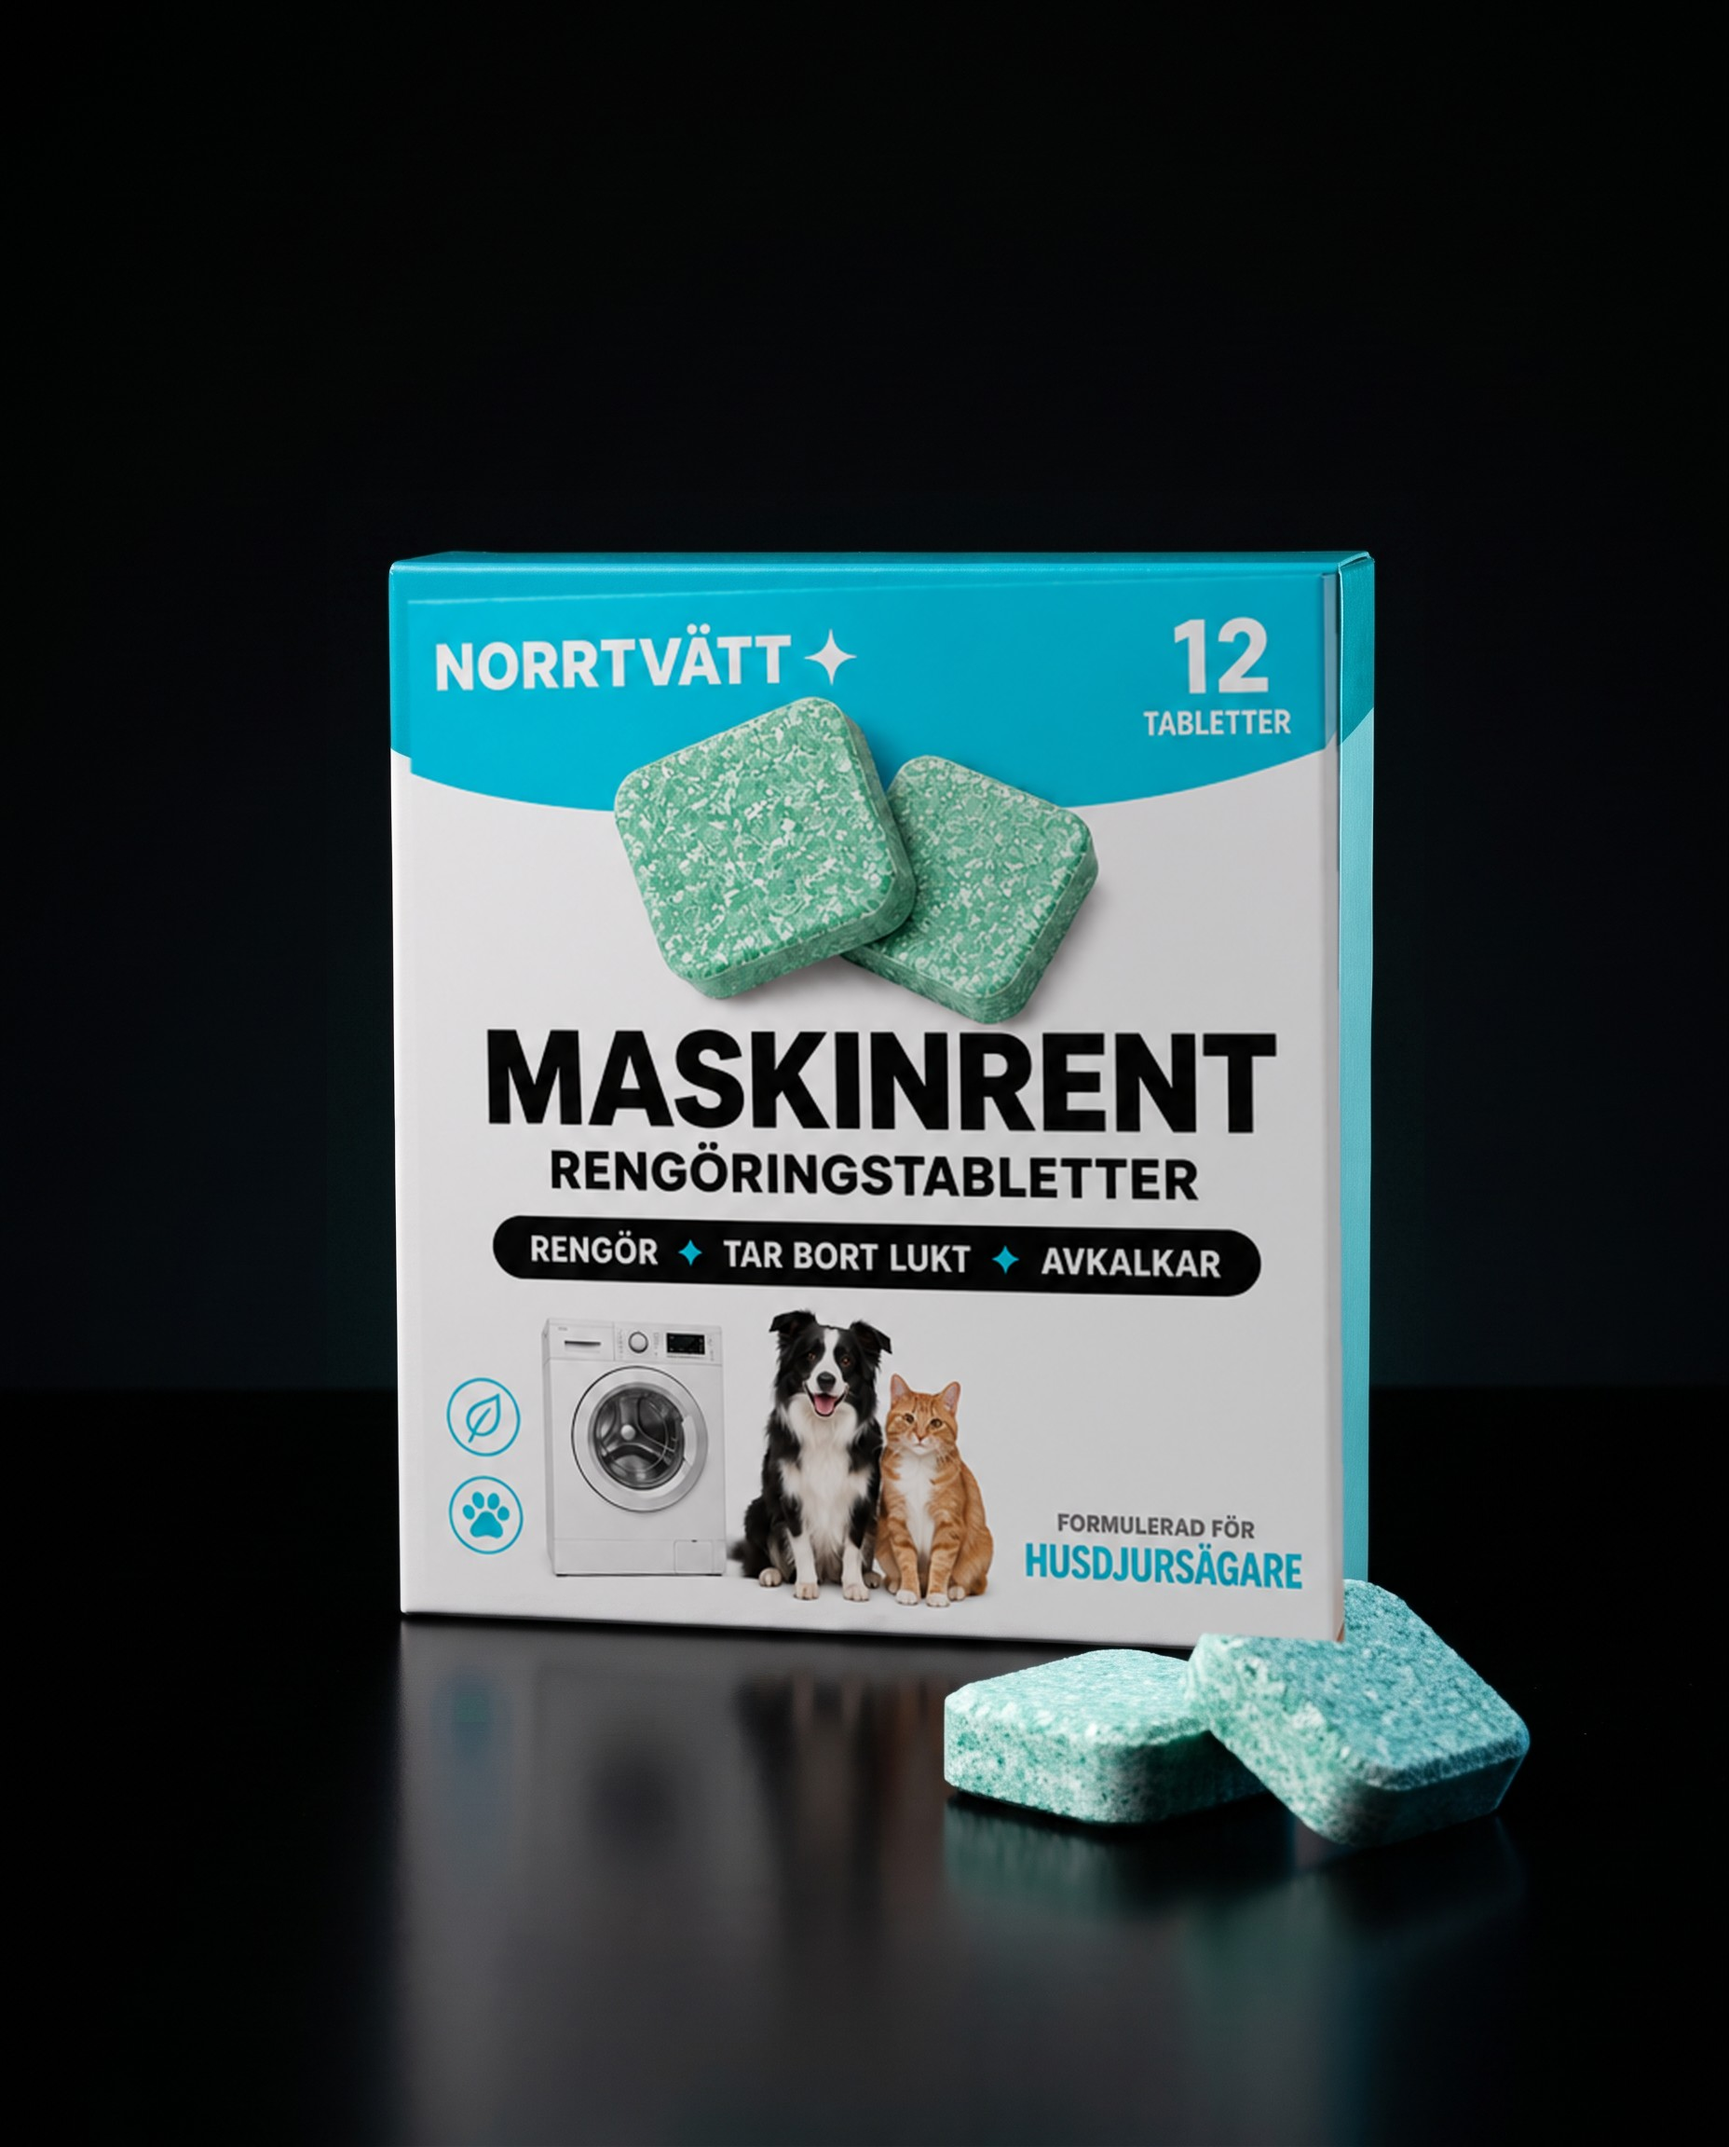
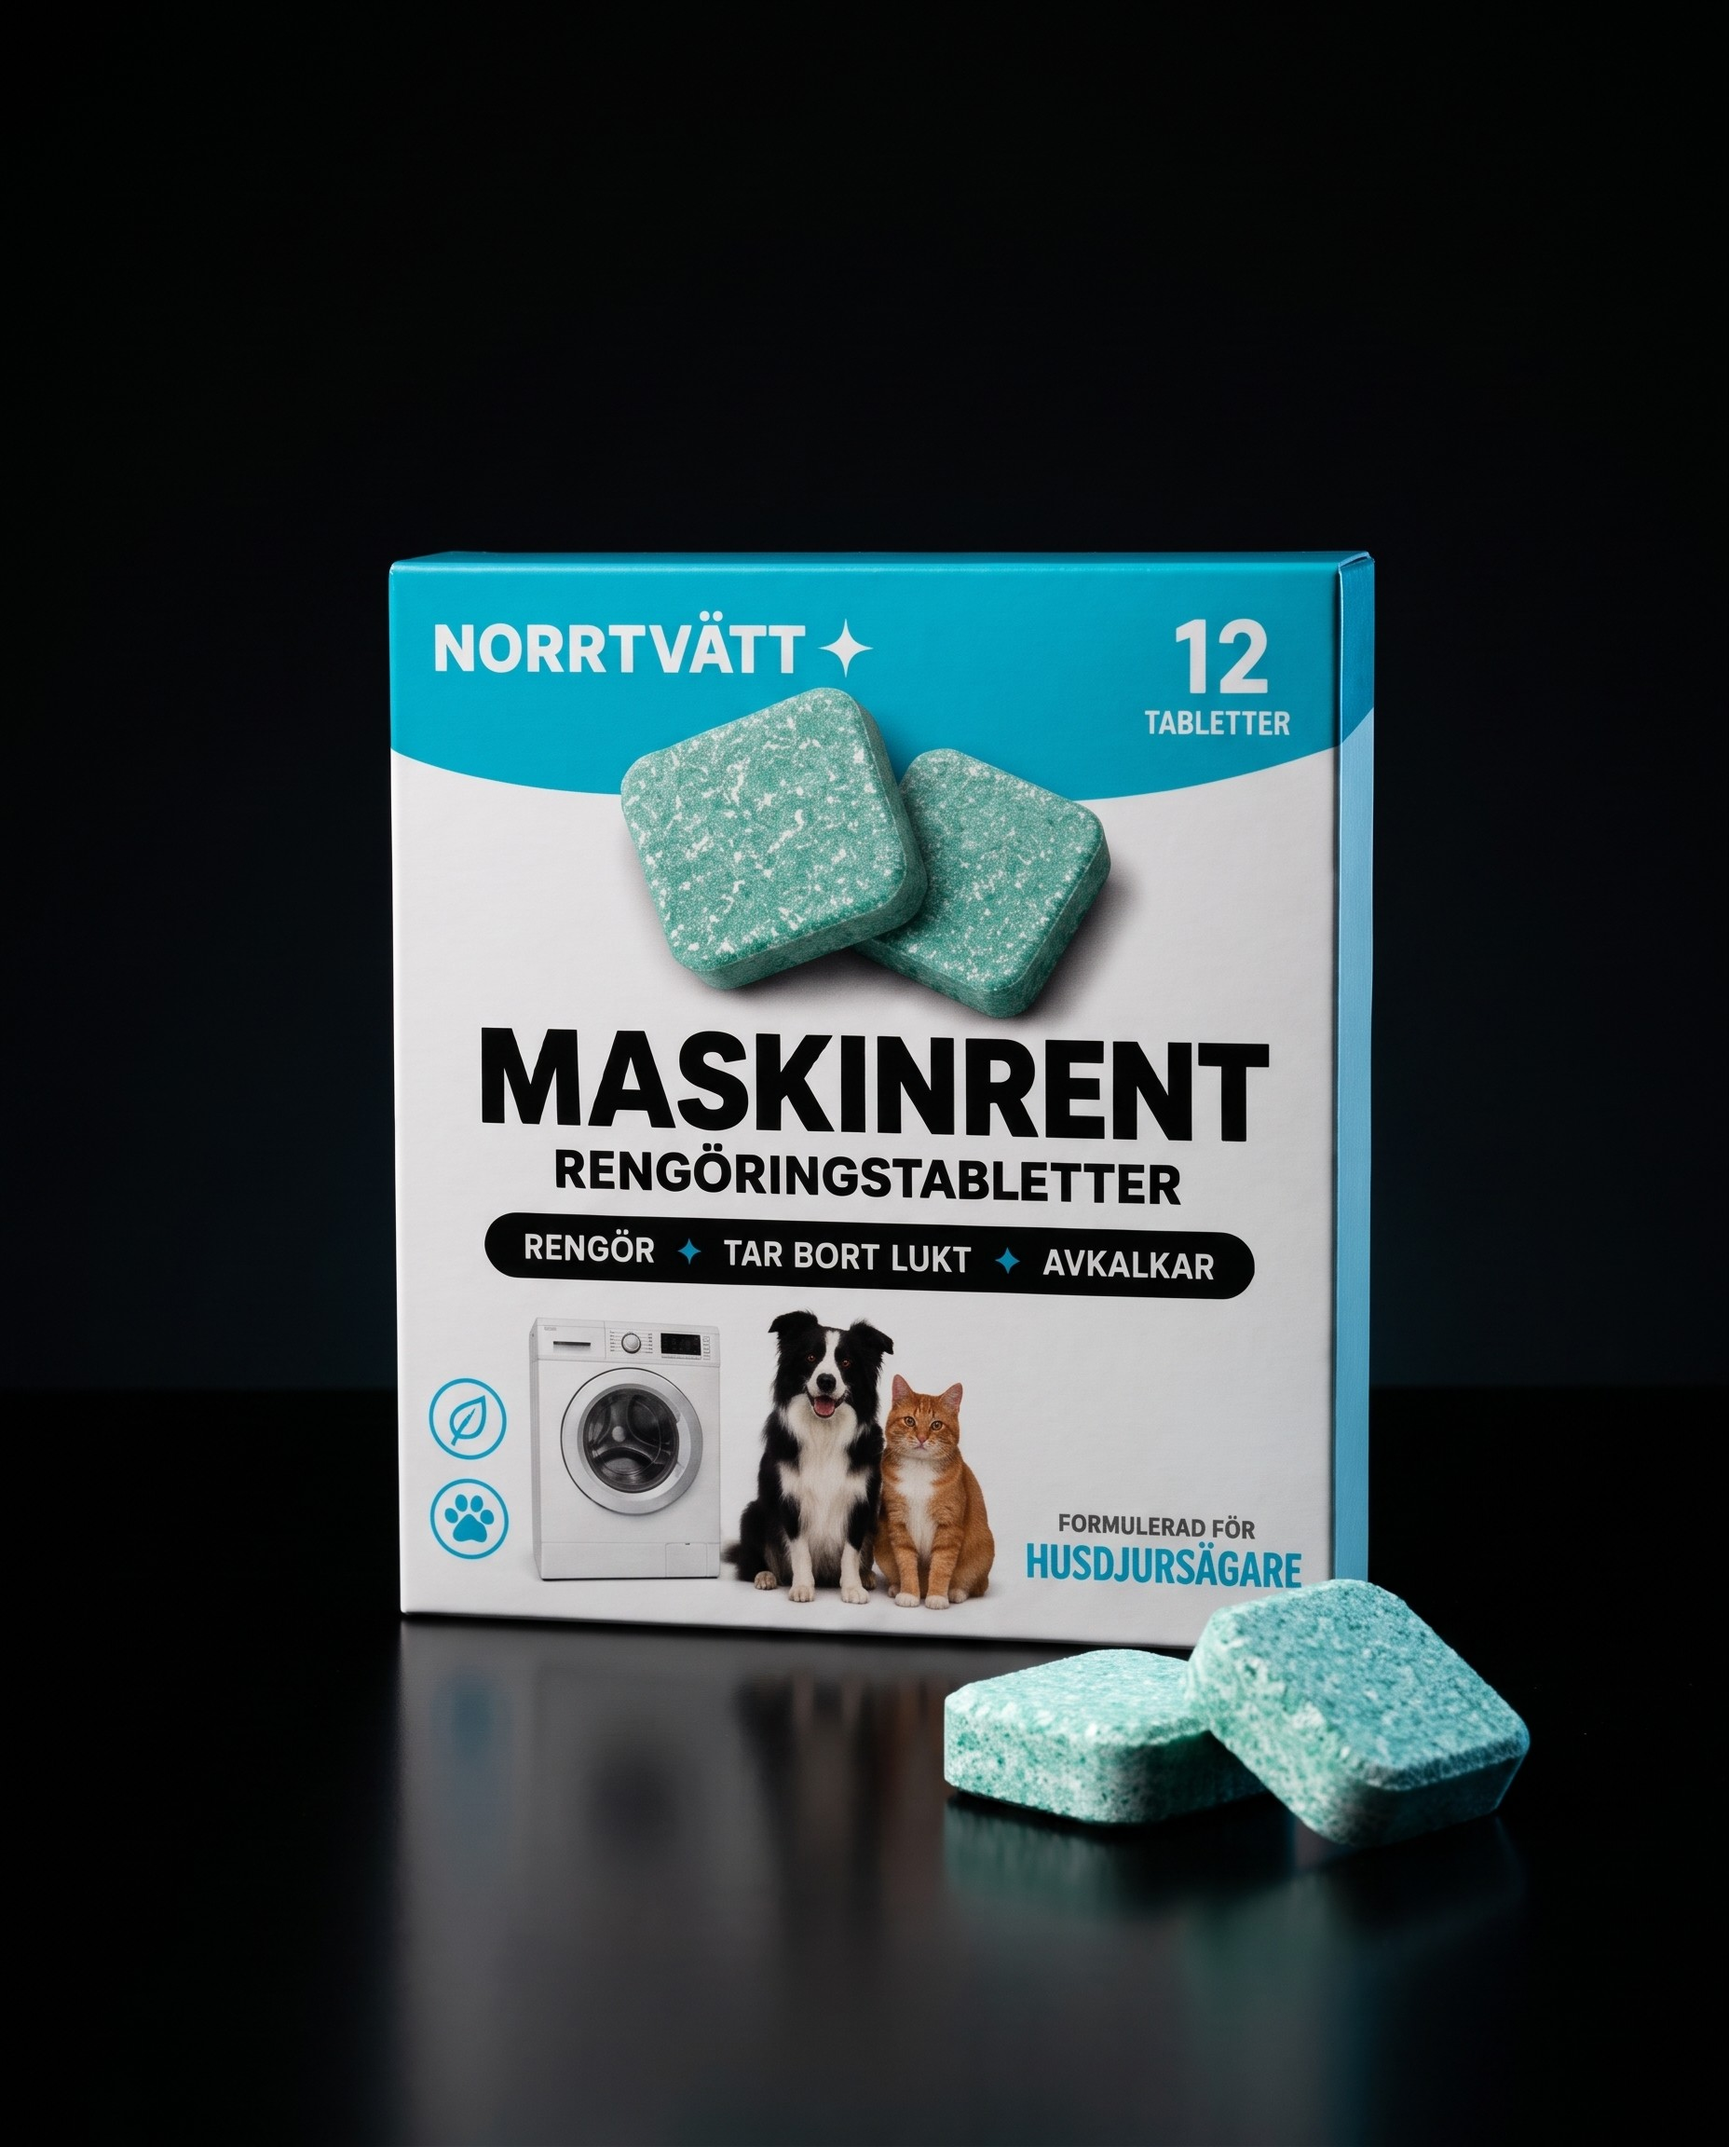
Black Friday: rätta BF_08 och BF_09
BF_08: tabletterna ligger nu framför kartongen igen (originalfotot används, trycket
var redan korrekt). BF_09: bandet hänger naturligt över högra kartongen och toppen
är hel; bara den felstavade raden FORMULERAD FÖR är utbytt mot riktiga trycket.

Claude-Session: https://claude.ai/code/session_01HS8SiYg86p7nUYY9U23j8j

Changed region(s): [[0.2188, 0.25, 0.7812, 0.7812]]

diff --git a/annonser/black_friday_2026-11-09/kalla/tools/paste_face.py b/annonser/black_friday_2026-11-09/kalla/tools/paste_face.py
@@ -39,7 +39,8 @@ def main():
         q = boxlib.quad_from_plane(q, 0, 1, -ext, 1)
     rgb, al = boxlib.warp_to_quad(tex, q, (W, H))
     # inset mask so worn edges / box outline of the photo stay
-    qi = boxlib.quad_from_plane(q, inset, 1 - inset, inset, 1 - inset)
+    reg = next((list(map(float, a.split("=")[1].split(","))) for a in sys.argv if a.startswith("--region=")), None)
+    qi = boxlib.quad_from_plane(q, *(([reg[0], reg[2], reg[1], reg[3]]) if reg else (inset, 1 - inset, inset, 1 - inset)))
     m = np.zeros((H, W), np.float32); cv2.fillPoly(m, [np.int32(np.round(qi * 4))], 1, shift=2)
     if "--keep-dark" in sys.argv:   # dark things in front of the box (bag edge, handles, ribbon) stay
         lum_ai = img.astype(np.float32) @ np.float32([.299, .587, .114]); lum_tx = rgb @ np.float32([.299, .587, .114])
@@ -53,7 +54,7 @@ def main():
     cy = next((int(a.split("=")[1]) for a in sys.argv if a.startswith("--clip-y=")), None)
     if cy:   # something in front of the box from this row down (e.g. the bag)
         m[cy:] = 0
-    m = cv2.GaussianBlur(m, (0, 0), 1.5) * al
+    m = cv2.GaussianBlur(m, (0, 0), 4.0 if reg else 1.5) * al
     f = img.astype(np.float32)
     side = np.linalg.norm(q[1] - q[0])
     s = max(10, side / 5)

diff --git a/annonser/black_friday_2026-11-09/kalla/specar/spec_tejp_bf.py b/annonser/black_friday_2026-11-09/kalla/specar/spec_tejp_bf.py
@@ -1,6 +1,6 @@
 import pathlib
 W = pathlib.Path(__file__).resolve().parent
-BG = (W.parent / "bfai" / "svart_fix.png").as_uri()
+BG = (W.parent / "bfai" / "svart.png").as_uri()
 def tape(text, top, rot, n=6):
     seg = f"<span>{text}</span><i></i>" * n
     return f'<div class="tape" style="top:{top}px;transform:rotate({rot}deg)"><div class="in">{seg}</div></div>'

diff --git a/annonser/black_friday_2026-11-09/kalla/specar/spec_ros_ad.py b/annonser/black_friday_2026-11-09/kalla/specar/spec_ros_ad.py
@@ -1,6 +1,6 @@
 import pathlib
 W = pathlib.Path(__file__).resolve().parent
-BG = (W.parent / "bfai" / "ros3_fix.png").as_uri()
+BG = (W.parent / "bfai" / "ros3_fix2.png").as_uri()
 css = f"""
 body{{background:#222 url('{BG}') center/cover no-repeat}}
 .t{{position:absolute;left:0;right:0;top:56px;text-align:center;color:#fff}}

diff --git a/annonser/black_friday_2026-11-09/README.md b/annonser/black_friday_2026-11-09/README.md
@@ -25,6 +25,6 @@ Alla tio klarar BOF-testet: tar man bort erbjudandet finns ingen annons kvar.
 - `bilder/*_ai.jpg`: rå AI-miljöer.
 - `bilder/*_bas.jpg`: efter fix, alltså riktig kartongfront plus text på lapp, tavla, kvitto och neon, före rubrikerna.
 - `tools/`: samma verktyg som i `../bof_omgang4_2026-11-09/`, med några tillägg:
-  - `paste_face.py` har fått `--keep-dark` (band och kasse framför kartongen), `--clip-y` och `--exclude` (för en andra kartong).
+  - `paste_face.py` har fått `--keep-dark` (band och kasse framför kartongen), `--clip-y`, `--exclude` (för en andra kartong) och `--region=u0,v0,u1,v1`, som byter ut bara en del av fronten, till exempel en felstavad rad.
   - `warp_html.py` har fått `blend: "screen"` för neon.
 - `specar/`: en spec per annons. Sökvägarna pekar på sessionens scratchpad. Peka om dem till `kalla/bilder/` innan de körs.

diff --git a/annonser/black_friday_2026-11-09/copy/pastaenden.md b/annonser/black_friday_2026-11-09/copy/pastaenden.md
@@ -18,4 +18,5 @@
    - Kartongfronten är din riktiga produktbild, inklistrad i perspektiv med bildens ljus. Felstavad AI-text på kartonger och kalkylator är borttagen.
    - All text, neonskylten, hänglappen, bokstäverna på tavlan och kvittona är satta i HTML, inte av AI.
    - Logotypen på tvättmaskinen i neonbilden är borttagen.
+   - BF_08 och BF_09 använder AI-fotot utan inklistrad front, eftersom tabletterna och bandet ligger framför kartongerna. Trycket är kontrollerat mot den riktiga kartongen. I BF_09 är raden "FORMULERAD FÖR HUSDJURSÄGARE" på högra kartongen utbytt mot den riktiga, eftersom AI hade stavat fel där.
    - Rosetten, kassen, tejpen och neonskylten är rekvisita. Förpackningen ser inte ut så.
